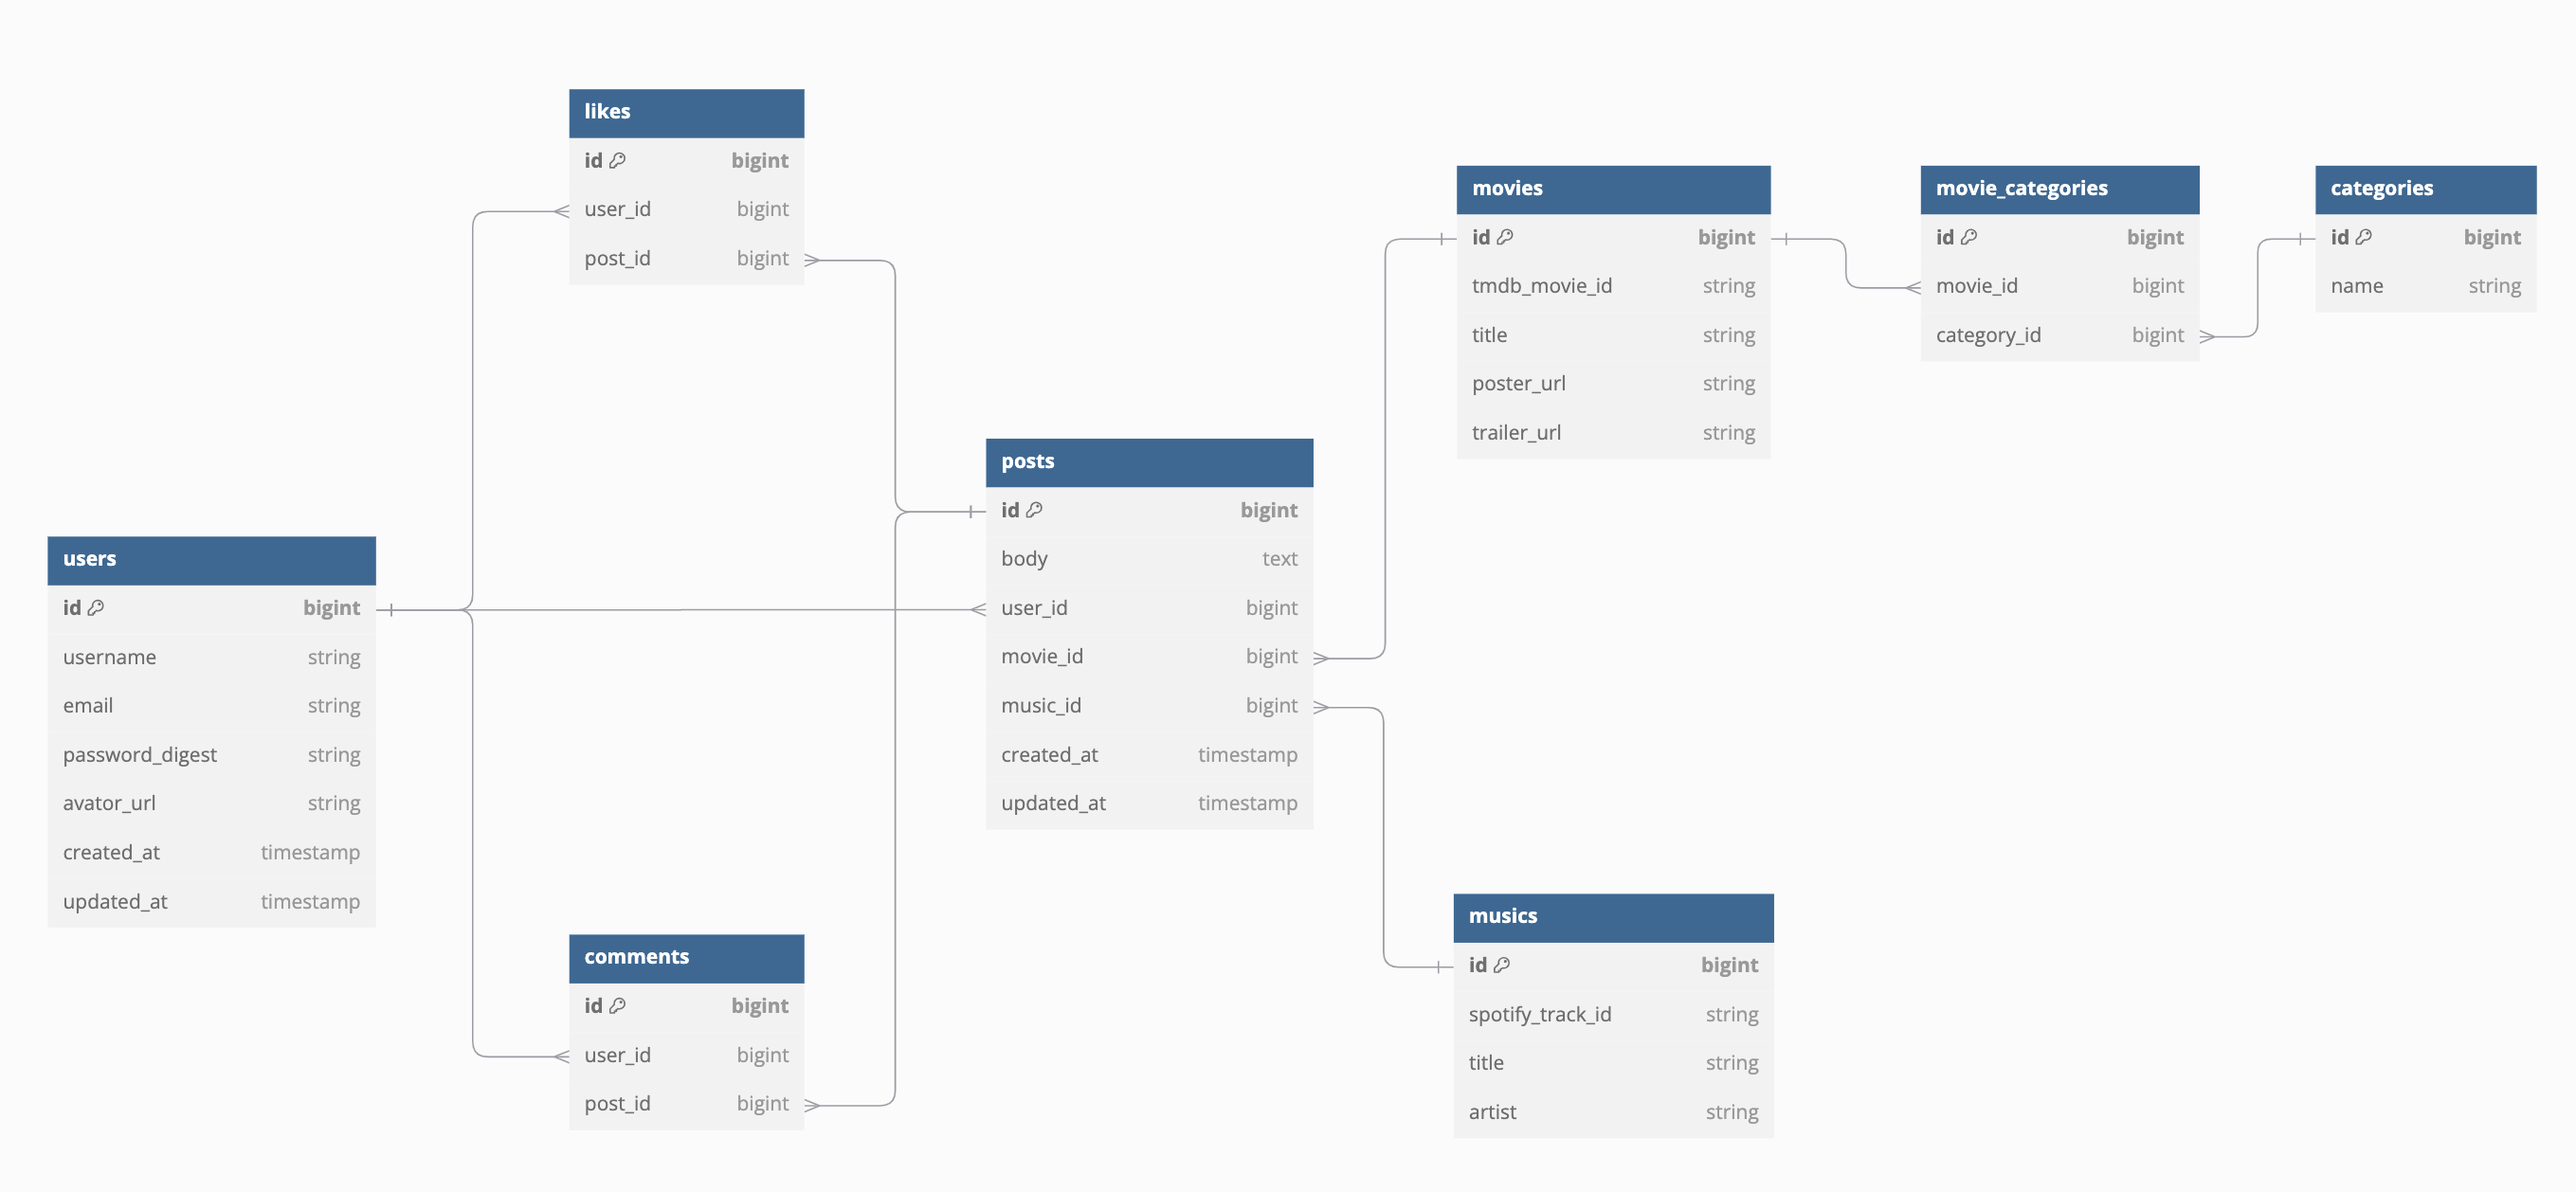
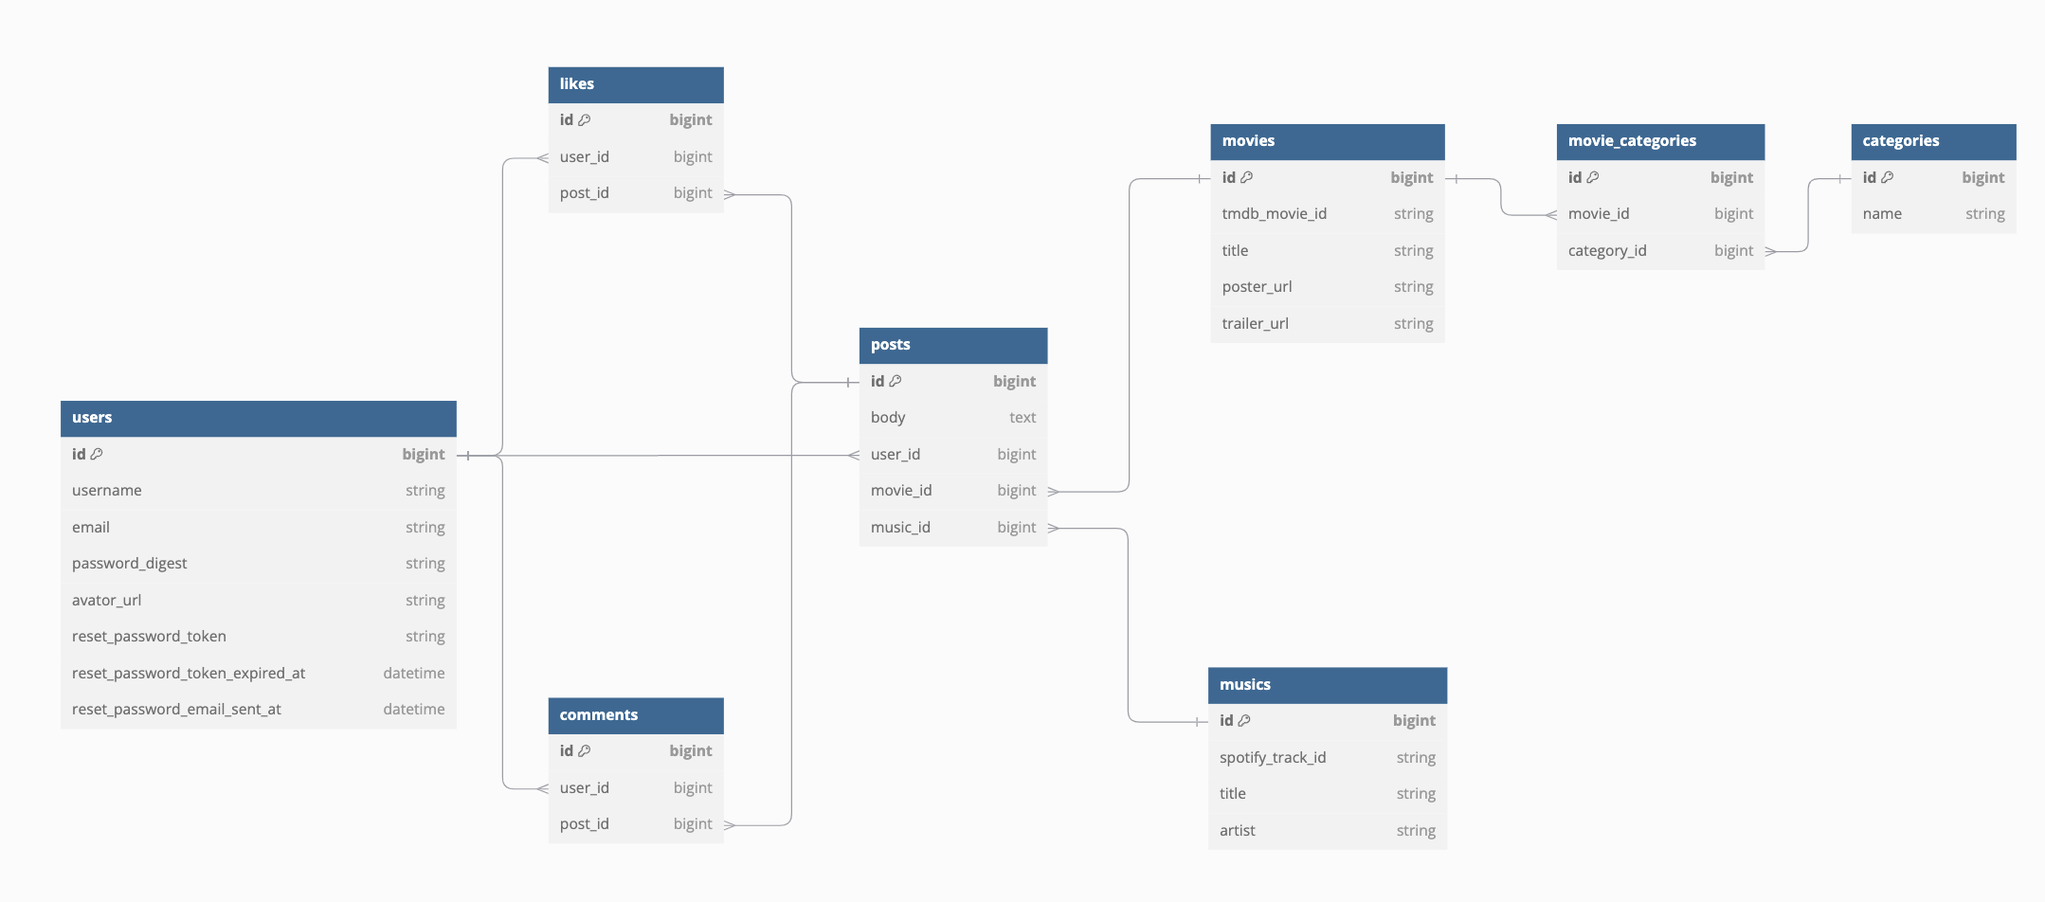
modified README.md and ER diagram

diff --git a/README.md b/README.md
@@ -58,6 +58,10 @@ SNSでの発信、ソーシャルポートフォリオへの投稿
 * 退会フォーム
 * パスワード再設定機能
 
+# 投稿機能詳細
+・1つの投稿に複数の映画や複数の音楽を設定することはできない  
+・同じ映画・音楽が設定された投稿がある場合、コメントの内容が異なることを想定し、ユーザごとに全て表示する
+
 # 画面遷移図
 * Figma URL  
 https://www.figma.com/board/qLUzx7nb0syGcKitsrqJoX/%E7%94%BB%E9%9D%A2%E9%81%B7%E7%A7%BB%E5%9B%B3%E4%BD%9C%E6%88%90?node-id=0-1&t=otqxS2UlwA6kdbFc-1  　
